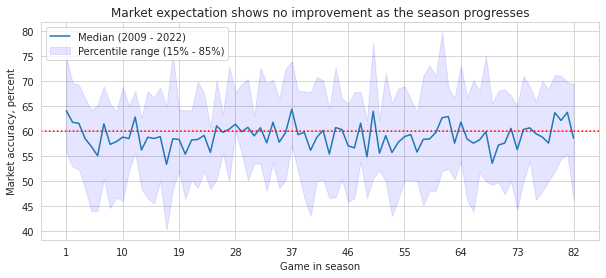
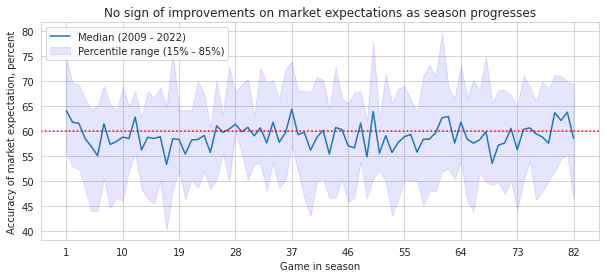
Text updates

Changed region(s): [[0.1485, 0.0288, 0.8911, 0.0863], [0.0, 0.1151, 0.0297, 0.8345]]

diff --git a/docs/collection/market_expectation_eda/NHL_and_Market_Expectations.md b/docs/collection/market_expectation_eda/NHL_and_Market_Expectations.md
@@ -247,7 +247,7 @@ plt.axhline(y = 60, color = 'r', linestyle = ':');
 
 plt.xlabel('Season');
 plt.ylabel('Correct market expectation, percent');
-plt.title('The market expectation and predictiveness');
+plt.title('Historical accuracy of the market expectation');
 ```
 
     Market's prediction accuracy of the sason 58.49%
@@ -551,7 +551,7 @@ for i, v in enumerate(team_stats.rate):
 
 ax.grid(False)
 ax.set_xlabel('Teams');
-ax.set_ylabel('Market accuracy, percent');
+ax.set_ylabel('Accuracy of market expectation, percent');
 plt.title('Market expectation, favorites, and ' + \
           f'team performance (20{last_yr_edge - 1} - 20{last_yr_edge} season)');
 ```
@@ -609,8 +609,8 @@ plt.fill_between(x, lb, ub, color = 'b', alpha = .1,
 plt.axhline(y = 60, color = 'r', linestyle = ':');
 # labels and details
 ax.set_xlabel('Season game sequence');
-ax.set_ylabel('Market accuracy, percent');
-plt.title('Market expectation shows no improvement as the season progresses');
+ax.set_ylabel('Accuracy of market expectation, percent');
+plt.title('No sign of improvements on market expectations as season progresses');
 plt.xlabel('Game in season')
 plt.xticks(list(range(1,(n_games_reviewed + 1),9)));
 plt.legend(loc = 'upper left');
@@ -622,7 +622,7 @@ plt.legend(loc = 'upper left');
     
 
 
-## Implications: No fortune telling in the NHL
+## Implications: No fortune telling in NHL
 
 I document evidence that the market expectation for NHL is quite lagging, and the power of expectations mainly comes from extreme and obvious performers (exceedingly outperforming and underperforming teams). A substantial gain based on the bets would require one to 'beat the market,' bet against the market, and those expectations to be correct. The evidence shown here fails to show a confidence individual (agents) achieving such outcome consistently to build wealth.
 
